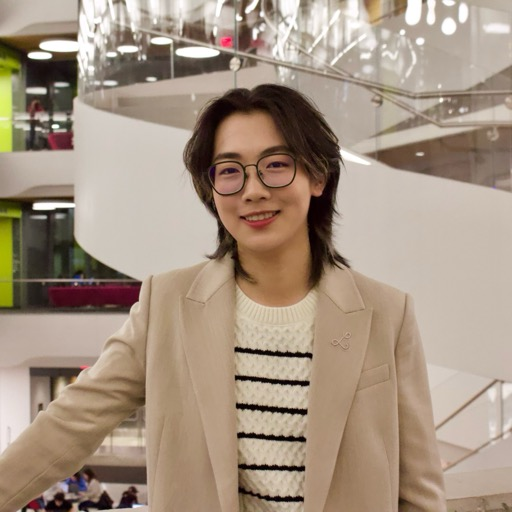
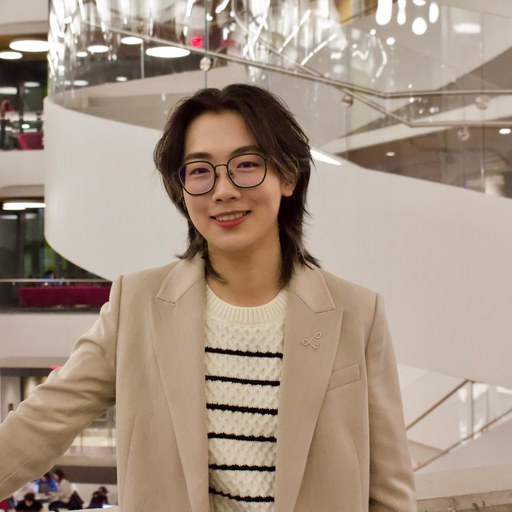
chore: new portrait, drop What-I'm-Working-On, rename Deal Cost role
- Replace portrait images (me.jpg, me-light.jpg, me-dark.jpg) with a
  better-cropped version of IMG_1119, biased ~200px right of center
  to keep the face properly framed.
- Remove the "What I'm Working On" section from the about page so the
  page reads tighter (Intro -> Currently -> A Bit More -> Looking For
  -> Get in Touch).
- Rename the Advent International role from "Deal Cost Accounting
  Intern" to "Deal Cost Options Intern" in both the resume work entry
  and the about-page mention.

diff --git a/src/data/about.ts b/src/data/about.ts
@@ -8,13 +8,7 @@ I'm interested in the space where data science, software engineering, and financ
 
 - **Khoury College, Northeastern University** — BS in Computer Science + Business Administration. GPA: 3.64. Dean's List.
 - **TA for Foundations of Data Science (DS3000)** — running office hours and grading for 60+ students.
-- **Previously interned at Johnson & Johnson MedTech** as an Orthopedics Offer Development Analyst, and at **Advent International**, a global private-equity firm, in Deal Cost Accounting.
-
-# What I'm Working On
-
-- Building small interactive tools with Python, Jupyter, ipywidgets, and Voilà.
-- Strengthening my ML foundations — recently implemented OLS and polynomial regression from scratch in NumPy on an S&P 500 ESG dataset, and used PCA + K-Means to segment firms into ESG-financial risk tiers.
-- Lower-level systems work in C and RISC-V — built a Unix shell from scratch, designed an FSM-based railroad crossing controller and a single-cycle RISC-V processor on FPGA.
+- **Previously interned at Johnson & Johnson MedTech** as an Orthopedics Offer Development Analyst, and at **Advent International**, a global private-equity firm, in Deal Cost Options.
 
 # A Bit More About Me
 

diff --git a/src/data/resume/work.ts b/src/data/resume/work.ts
@@ -44,7 +44,7 @@ const work: Position[] = [
   },
   {
     name: 'Advent International',
-    position: 'Deal Cost Accounting Intern',
+    position: 'Deal Cost Options Intern',
     url: 'https://www.adventinternational.com',
     startDate: '2024-02-01',
     endDate: '2024-06-01',
